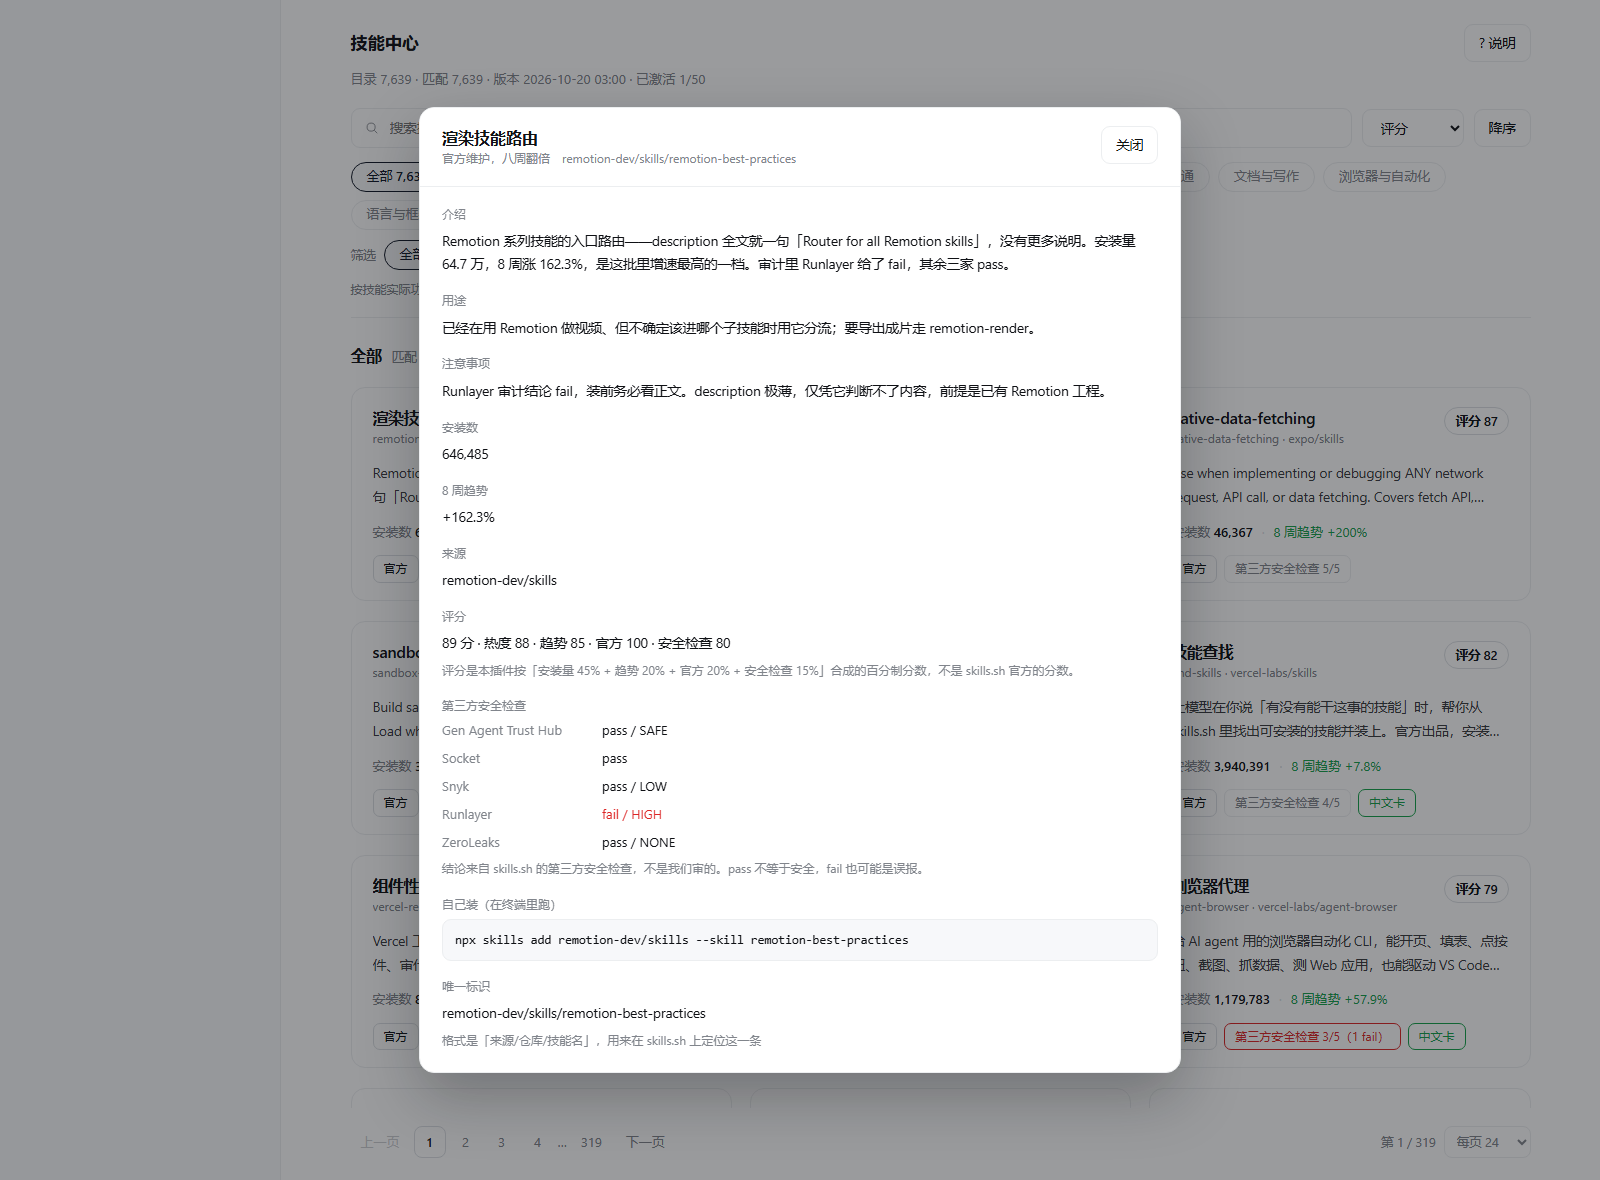
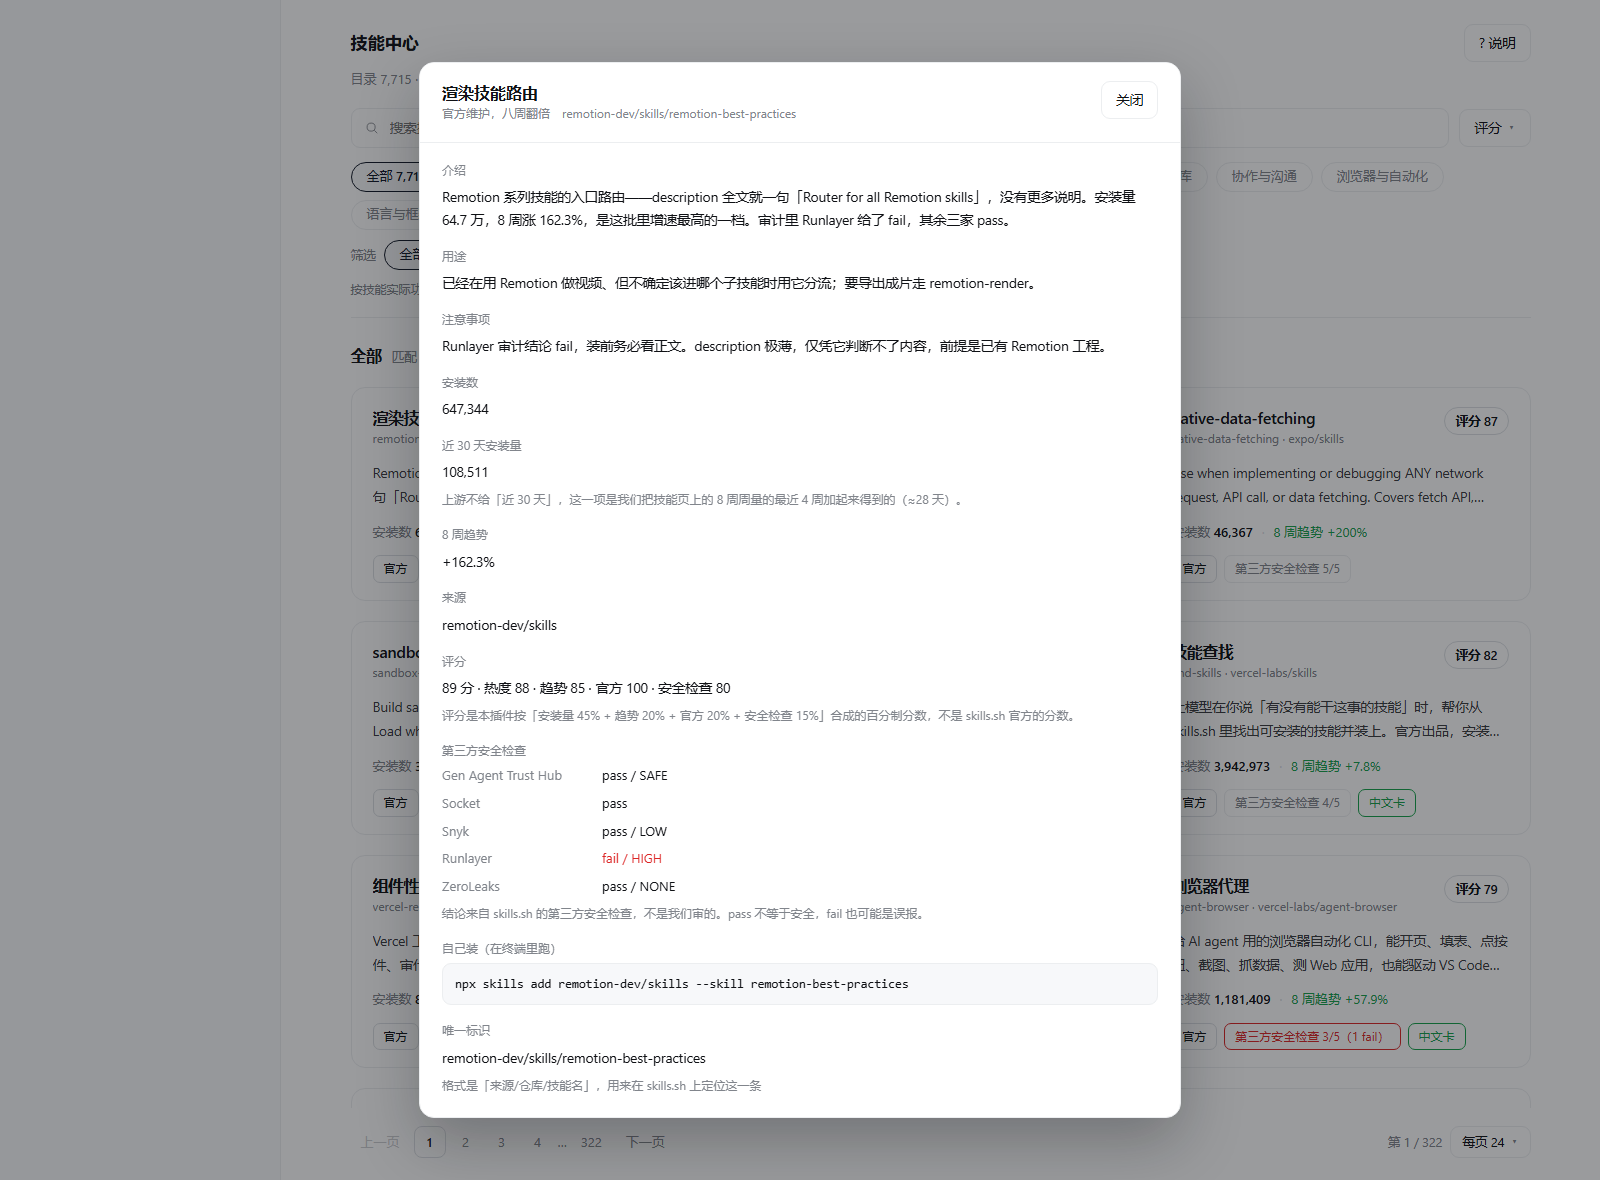
style(ui): give the grouped menu clearer separation between sections
Groups read as one block otherwise: stronger rule, more room above each label.

diff --git a/client/client.js b/client/client.js
@@ -327,8 +327,8 @@ font-variant-numeric:tabular-nums}
 .dsc-menu-btn{display:inline-flex;align-items:center;gap:6px}
 .dsc-menu-btn-sm{height:32px;padding:0 11px;font-size:12.5px}
 .dsc-caret{font-size:10px;color:var(--dsw-alias-label-secondary);position:relative;top:-1px}
-.dsc-menu-group{padding:6px 12px 4px;color:var(--dsw-alias-label-secondary);font-size:12px}
-.dsc-menu-sep{height:1px;background:var(--dsw-alias-border-l1);margin:6px 4px}
+.dsc-menu-group{padding:9px 12px 5px;color:var(--dsw-alias-label-secondary);font-size:12px;letter-spacing:.2px}
+.dsc-menu-sep{height:1px;background:var(--dsw-alias-border-l2);margin:8px 2px}
 .dsc-menu-item{display:flex;align-items:center;justify-content:space-between;gap:16px}
 .dsc-menu-check{color:var(--dsw-alias-brand-primary);font-size:12px}
 .dsc-menu-list{position:absolute;z-index:30;top:calc(100% + 6px);right:0;min-width:100%;padding:6px;
